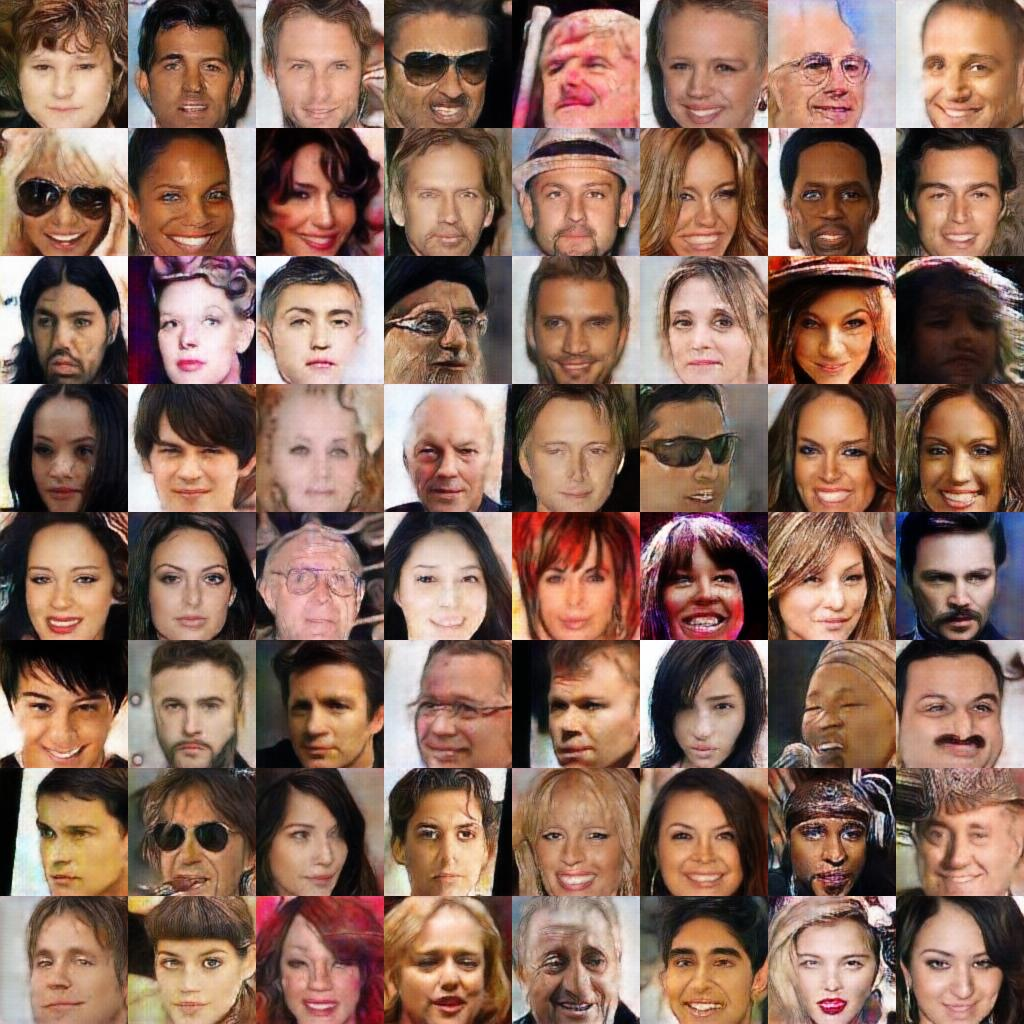
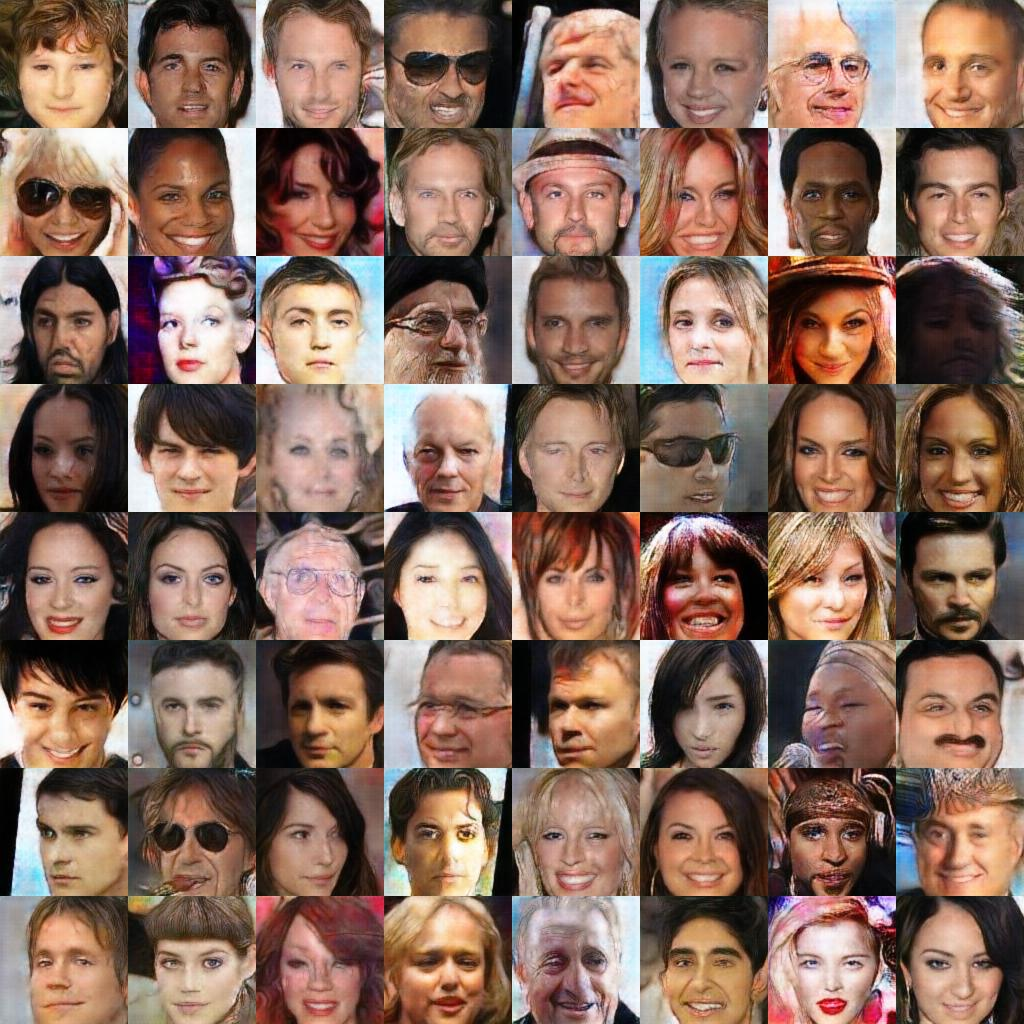
update

diff --git a/README.md b/README.md
@@ -4,7 +4,7 @@ Tensorflow (v1.0) implementaion of paper "Image to Image Translation with Condit
 
 
 # Some Results 
-### training on 80% 128 x 128 CelebA faces and its simple line drawings
+### After two epochs training on 80% 128 x 128 CelebA faces and its simple line drawings
 ### below is on held-out testing data
 Input Images:
 ![Input](https://github.com/lovecambi/Img2Img-Translation-Tensorflow/blob/master/imgs/input.jpg)
